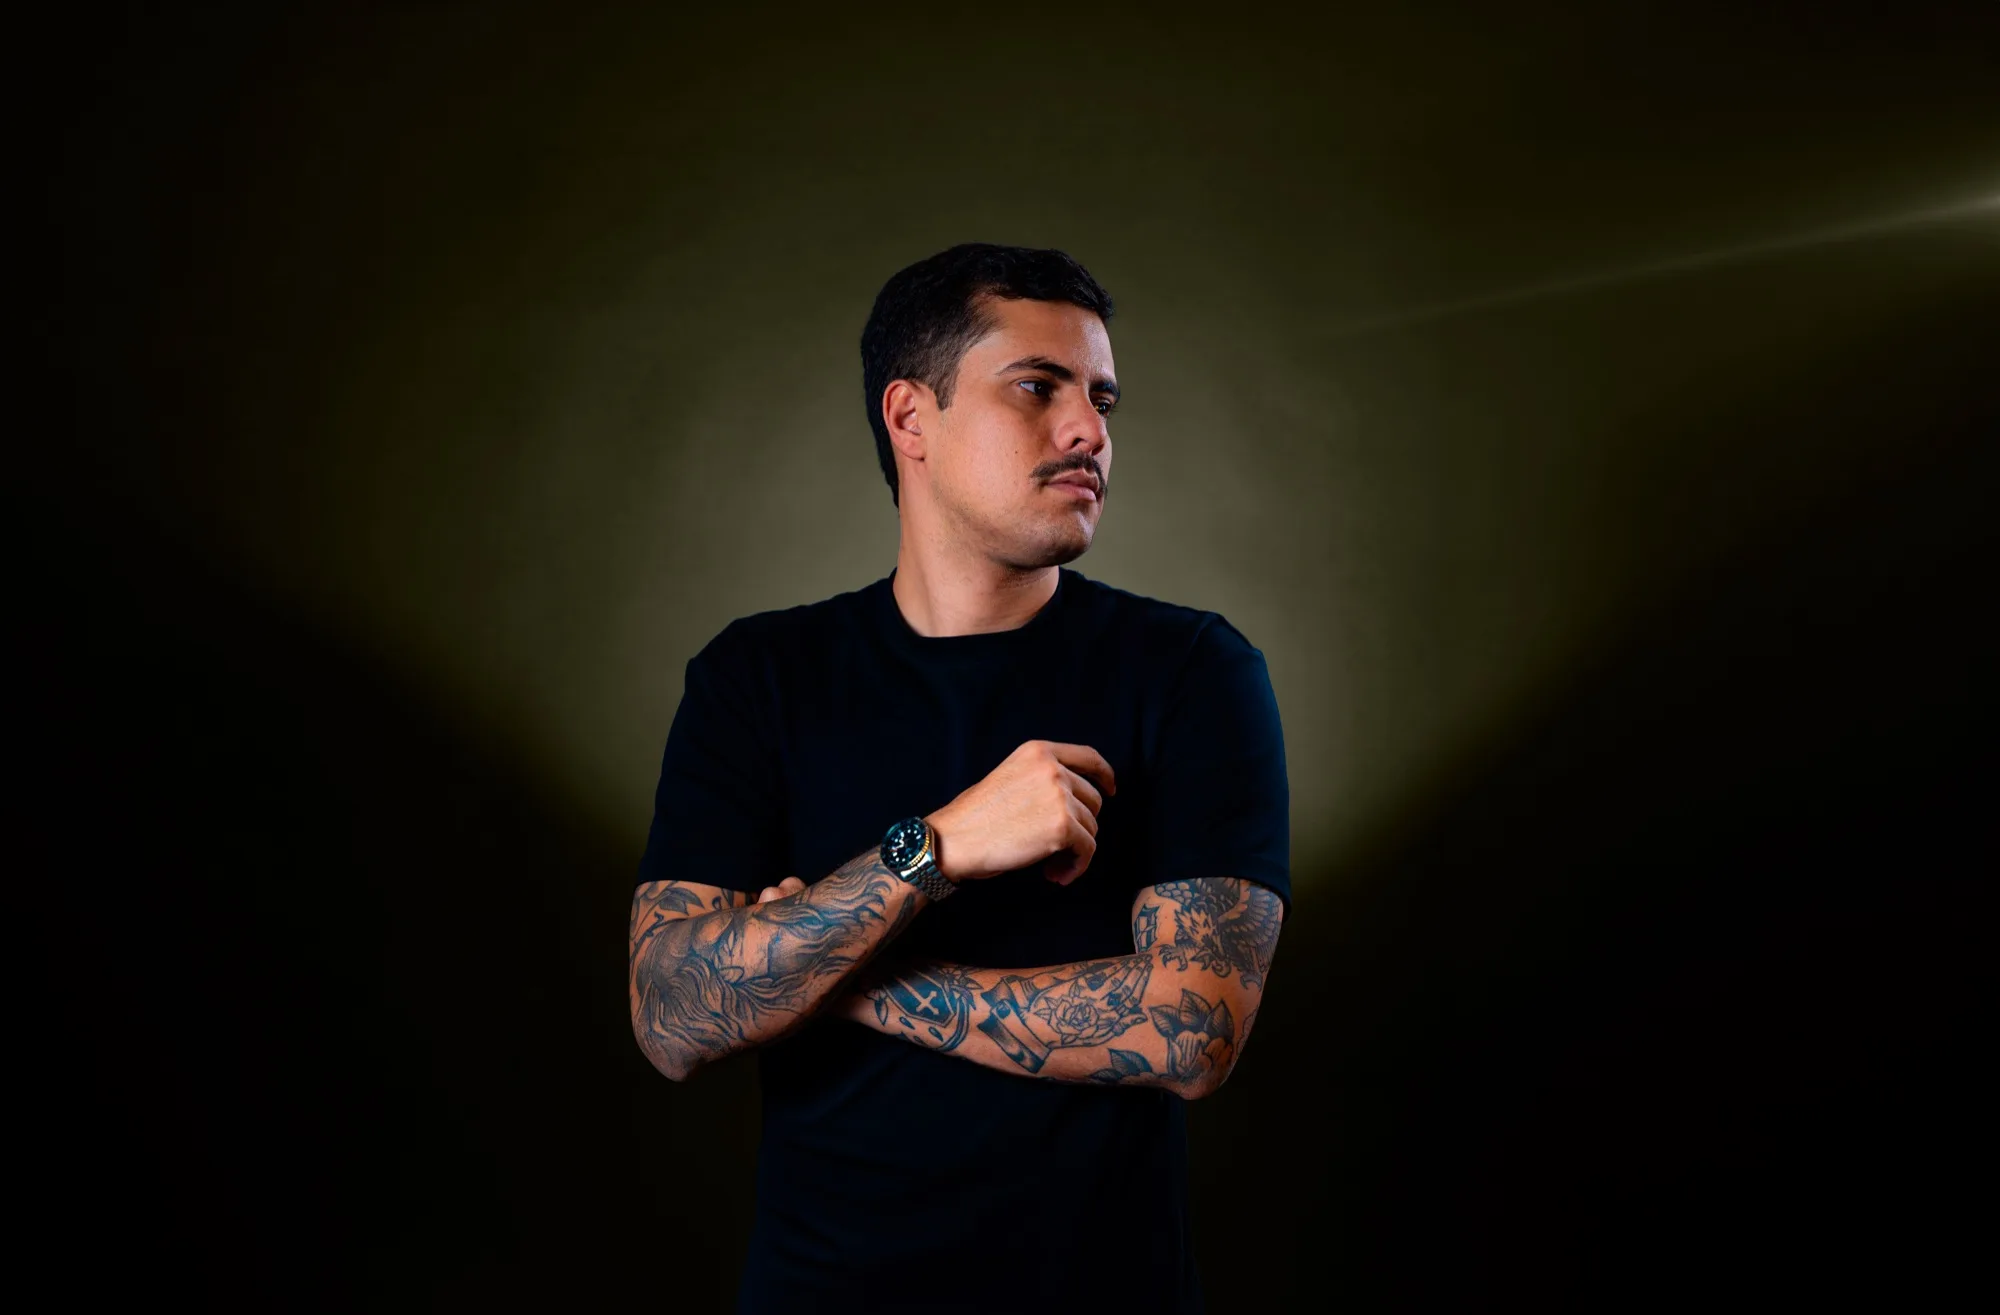
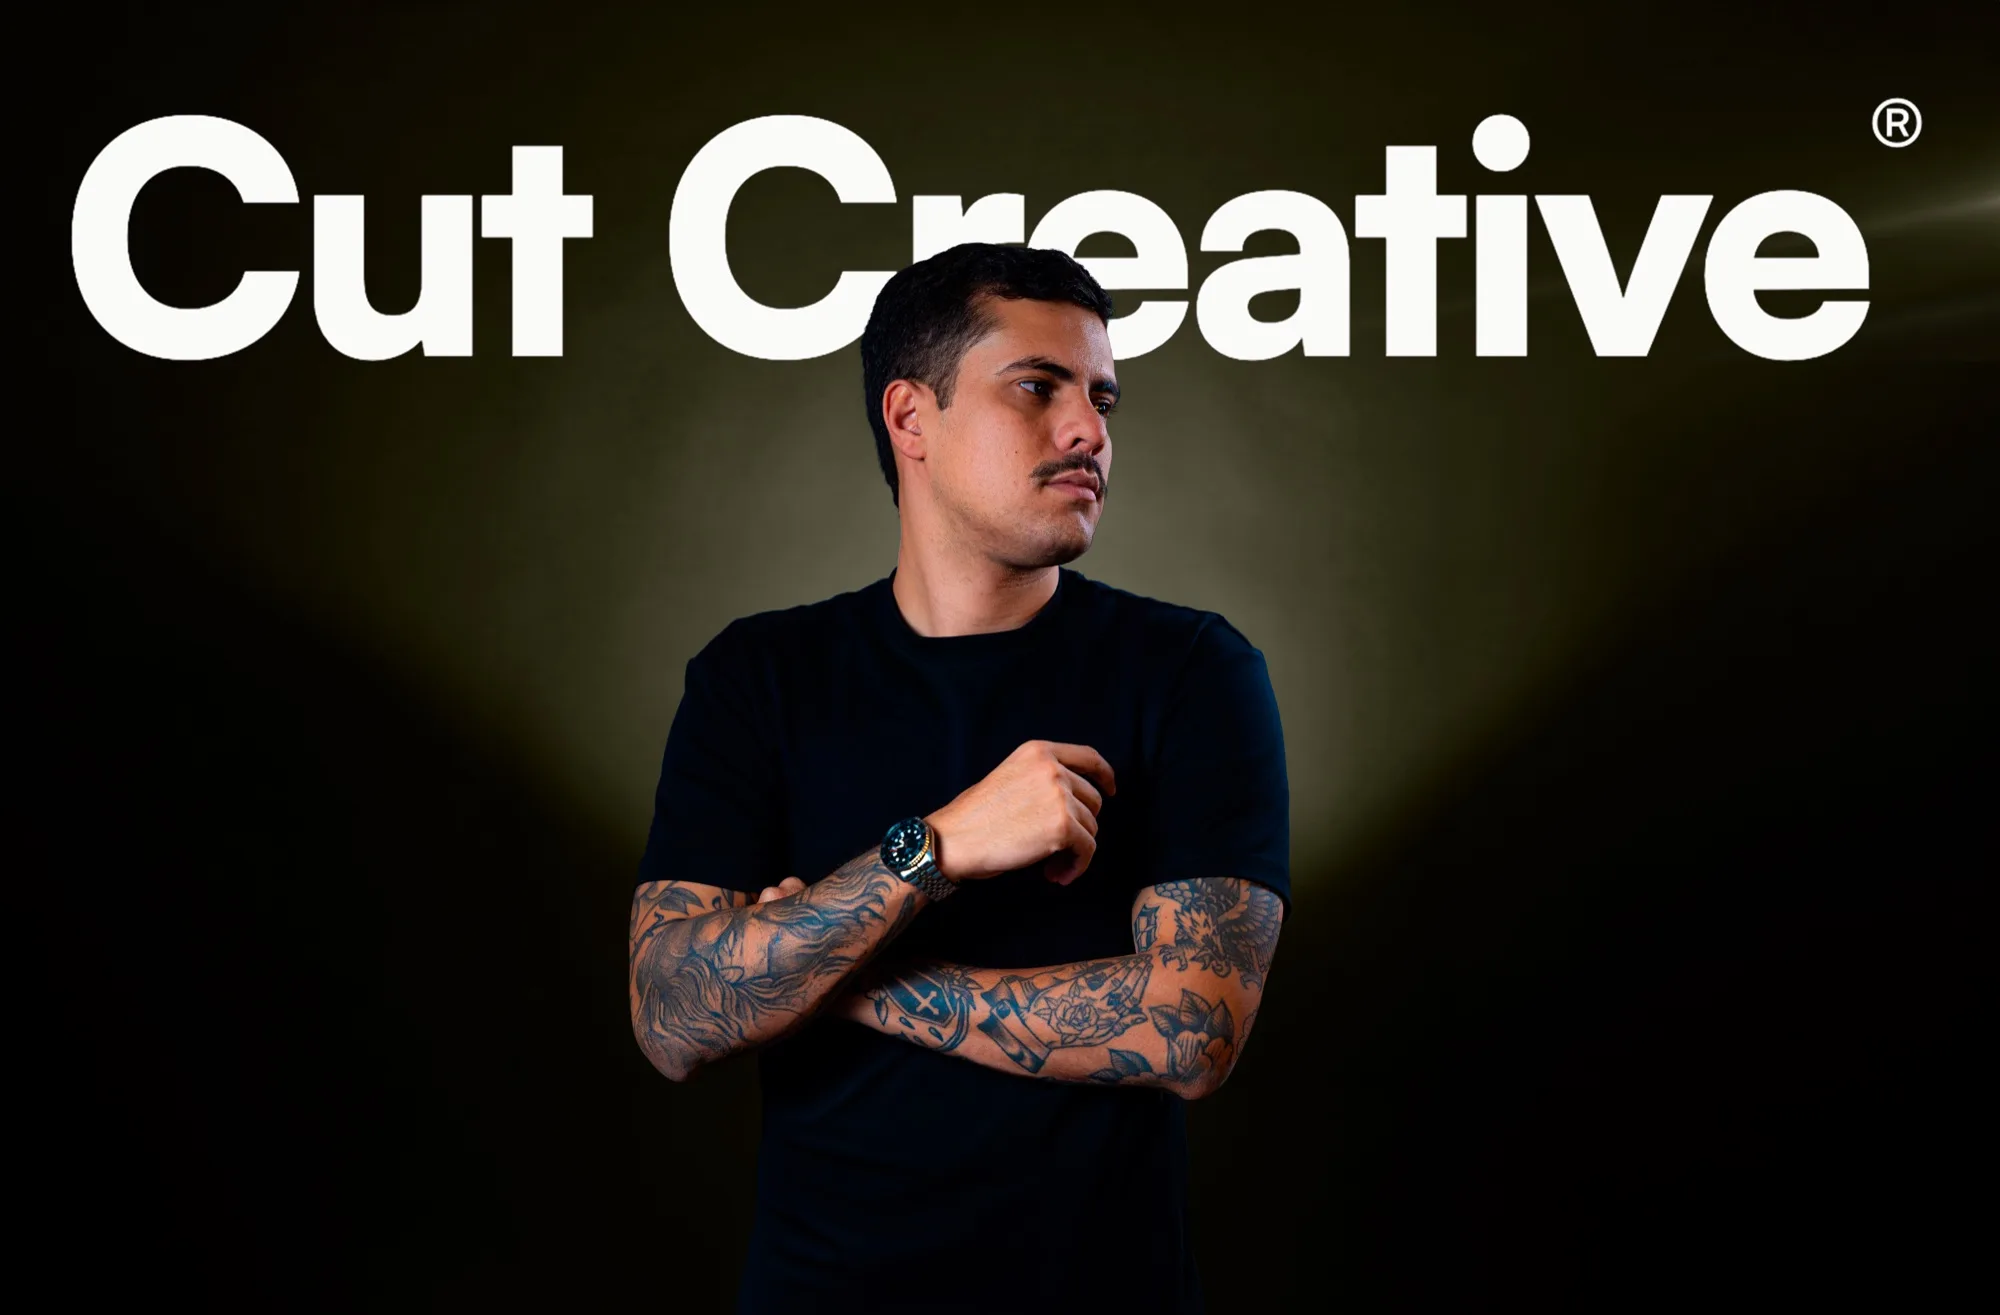
Hero desktop: foto com wordmark embutido; o Cut Creative em HTML fica só no mobile

Changed region(s): [[0.031, 0.0624, 0.961, 0.2806], [0.93, 0.0624, 0.961, 0.1247]]

diff --git a/src/components/Hero.tsx b/src/components/Hero.tsx
@@ -70,8 +70,11 @@ export default function Hero() {
           </div>
 
           <div className="relative z-10 flex min-h-[max(620px,86vh)] flex-col px-6 pt-10 pb-8 md:px-12 md:pt-12 md:pb-12">
-            {/* wordmark gigante cruzando a imagem (ref Dominic®) */}
-            <Reveal>
+            {/* Wordmark gigante cruzando a imagem (ref Dominic®). No desktop
+                ele já vem embutido na própria foto (passando atrás do retrato),
+                então só é renderizado abaixo de 641px — exatamente o ponto em
+                que o <picture> troca para a versão mobile, que não tem o texto. */}
+            <Reveal className="min-[641px]:hidden">
               <p
                 className="h-sans select-none"
                 aria-hidden
